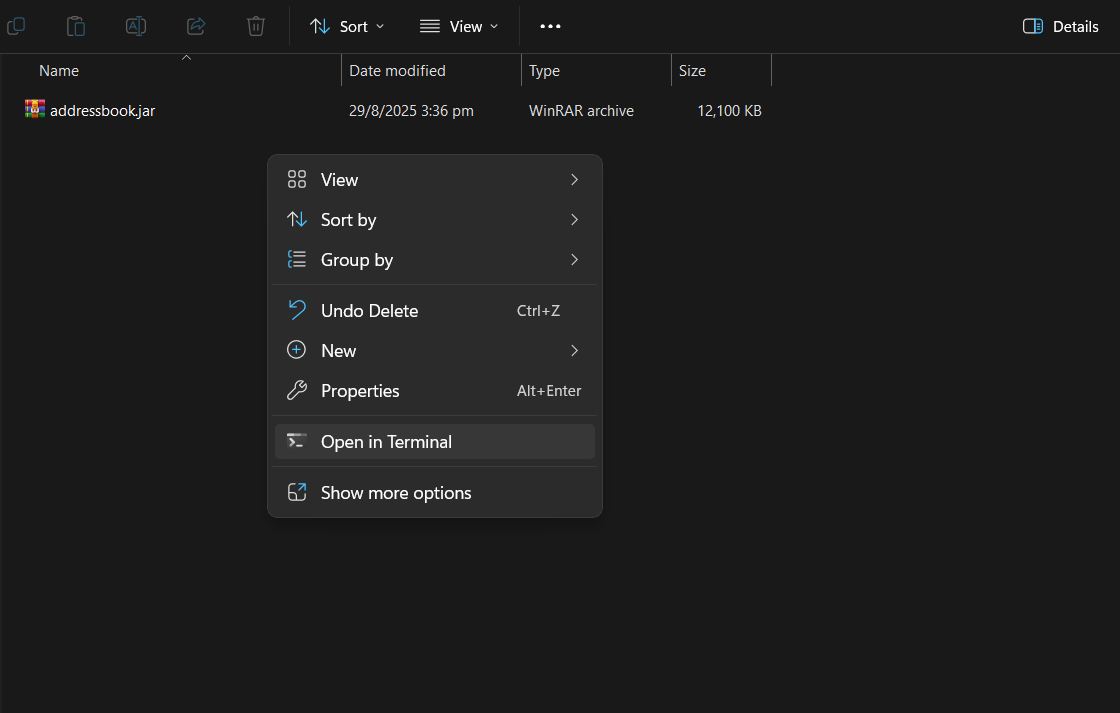
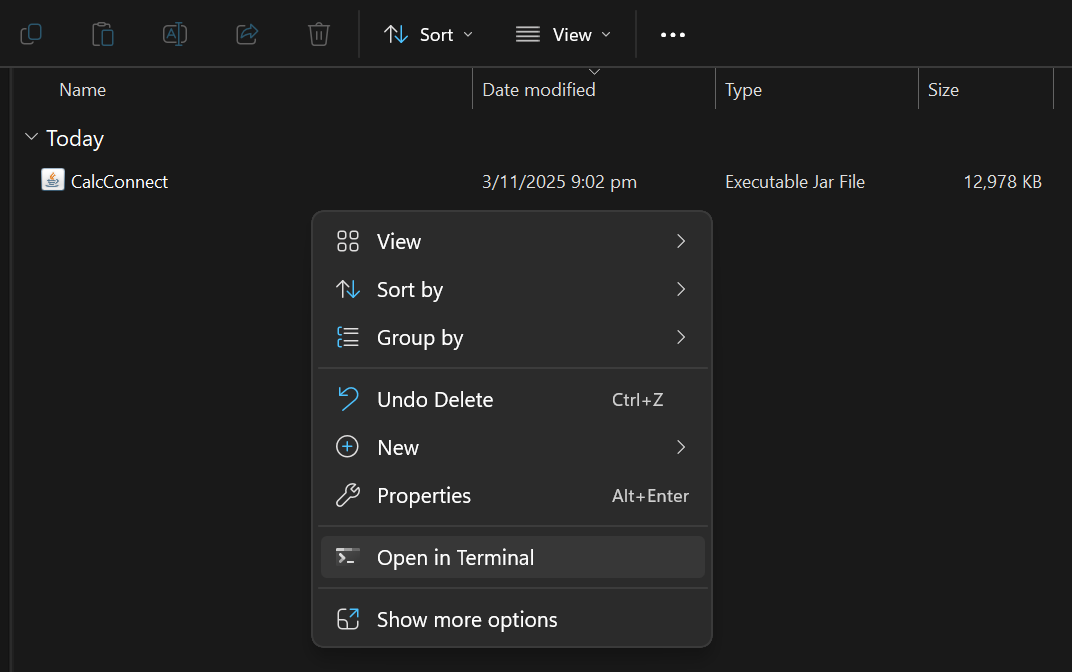
Add multiple minor fixes and improvements in UG

diff --git a/docs/UserGuide.md b/docs/UserGuide.md
@@ -21,7 +21,7 @@ CalcConnect is designed for **MA1521 TAs** who are technologically inclined. Whi
 
 1. Download the latest `.jar` file from [here](https://github.com/AY2526S1-CS2103T-F08B-4/tp/releases).
 
-1. Copy the file to the folder you want to use as the **home folder** for your AddressBook.
+1. Copy the file to the folder you want to use as the **home folder** for your address book.
 
 1. Go into the folder you put the jar file in, right-click anywhere in the folder space and select **Open in Terminal** (Windows).
    ![OpenInTerminalWindows](images/OpenCMD.png)
@@ -96,10 +96,9 @@ For instance, `listee` will not be interpreted as `list`.
 
 Shows a **popup** with a **help guide** of the commands available to users.
 
-![help popup](images/helpPopup.png)
-
 Format: `help`
 
+![help popup](images/helpPopup.png)
 
 ### Adding a student: `add`
 
@@ -124,11 +123,9 @@ Expected output:
 
 **Warnings:**
 * If any of the compulsory fields (Name, Phone Number, Email, Telegram Handle, Tutorial Group) are missing, an **error message** will be displayed and the student will not be added.
-  e.g. `Invalid command format!...` and details of the error.
 * If a student with the **same email** (case insensitive) already exists in the address book, an **error message** will be displayed, and the student will not be added.
   e.g. `This student already exists in the address book`
 * If any of the fields contain **invalid values** (e.g. empty name, phone number with non-numeric characters, improperly formatted email, or telehandle not starting with `@`), an **error message** will be displayed and the student will not be added.
-  e.g. `Invalid command format!...` and details of the error.
 
 ### Listing all students : `list`
 
@@ -136,7 +133,7 @@ Shows a list of all students in the address book.
 
 Format: `list [/v]`
 
-* If the optional verbose flag `/v` is written at the end, more **detailed information** (all grades and attendance) of the students will be shown instead of a summary.
+* If the optional verbose flag `/v` is written at the end, all assignment grades and tutorial attendances will be displayed.
 
 ### Editing a student : `edit`
 
@@ -156,6 +153,9 @@ Examples:
 Edits the phone number and Telegram Handle of the 1st student to be `91234567` and `@john` respectively.
 *  `edit 2 n/Betsy Crower t/`<br> 
 Edits the name of the 2nd student to be `Betsy Crower` and clears all existing tags.
+
+Expected output:
+* `Edited Student:...` with the details of the student edited.
 
 **Warnings:**
 * If a student with the **same email** (case insensitive) already exists in the address book, an **error message** will be displayed, and the student will not be edited.
@@ -177,10 +177,7 @@ Searches by specific fields. You can combine multiple fields. At least 1 field i
 * The **order** of the keywords **does not matter**. e.g. `Hans Bo` will match `Bo Hans`
 * Students matching at least one keyword will be returned (i.e. `OR` search).
   e.g. `Hans Bo` will return `Hans Gruber`, `Bo Yang`
-* If the optional verbose flag `/v` is written at the end, more detailed information (shows all grades and attendance) of the found students will be shown instead of a summary.
-
-Expected Output:<br>
-A list of students matching your search criteria will be displayed in the main window.
+* If the optional verbose flag `/v` is written at the end, all assignment grades and tutorial attendances will be displayed.
 
 Examples:
 * `find n/John` 
@@ -190,11 +187,14 @@ Examples:
 * `find n/Alex e/example.com` 
 <br>returns students whose names contain `Alex` or whose email addresses contain `example.com`
 * `find u/@jake tg/TG02` 
-<br>returns students whose `Telegram handle` contains `@jake` or who are in `Tutorial2`
+<br>returns students whose `Telegram handle` contains `@jake` or who are in `Tutorial 2`
+
+Expected Output:<br>
+* A list of students matching your search criteria will be displayed in the main window.
 
 **Warnings:**
 * If no matches are found, the list will be empty.
-* If wrong format is used (e.g. `find`, `find John`, `find n/`), a specific error message will be displayed (specifies if it is the input, keyword or prefix that is missing).
+* If wrong format is used (e.g. `find`, `find John`, `find n/`), a specific error message will be displayed (specifies if it is the input, keyword or prefix that is invalid/missing).
 
 ### Deleting a student : `delete`
 
@@ -210,14 +210,14 @@ Examples:
 * `list` followed by `delete 2` deletes the 2nd student in the address book.
 * `find Betsy` followed by `delete 1` deletes the 1st student in the results of the `find` command.
 
-Hints:
+Tips:
 * Use `find` command to locate the student to delete then use the `delete` command to delete the relevant student.
 
 Expected output:
 * Student is **deleted** from the address book.
 
 **Warnings:**
-* Entering the wrong format for the command will result in a **warning**: `Invalid command format!`
+* Entering the wrong format or an invalid index for the command will result in a specific warning.
 
 ### Clearing all entries : `clear`
 
@@ -250,10 +250,12 @@ Format: `grade INDEX a/ASSIGNMENT_NAME g/GRADE`
 * The index **must be a positive integer** 1, 2, 3, …
 * Assignment name must be one of [Q1, Q2, Q3, Q4, Q5, Q6, Q7, Finals], case-insensitive.
 * Grade must be a **positive real number**(up to 2 decimal places) in the range 0-100 (inclusive).
+* Leaving the grade field empty (`g/`) will result in the assignment being marked as **not graded**.
 
 Examples:
 * `grade 3 a/Q1 g/97`
 * `grade 5 a/finals g/80`
+* `grade 5 a/finals g/` removes the grade for finals of the 5th student in the address book.
 
 Expected output: <br>
 The specified student's grade will be updated with the given value.
@@ -261,6 +263,9 @@ This value will be automatically converted to 2 decimal places.
 
 `grade` commands show the verbose UI by default. Red assignments indicate not graded and blue assignments indicate graded.<br>
 <img src="images/gradeCharlotte.png" alt="Example add Betsy" width="25%" height="25%">
+
+**Warnings:**
+* Entering an invalid or missing index, assignment name or grade will result in a specific error message.
 
 ### Sorting the student list: `sort`
 
@@ -275,11 +280,10 @@ Possible `[FIELD]` values:
 * `tutorial`: Sorts by tutorial group number (lowest first).
 
 Possible `[ORDER]` values:
-* (default): Sorts in **ascending** order.
-* `asc`: Sorts in **ascending** order.
+* `asc`: Sorts in **ascending** order (default if ORDER not provided).
 * `desc`: Sorts in **descending** order.
 
-Note: default means no order parameter is specified.
+<br>
 
 * Sorting by `name` sorts the students in **alphabetical order** of their **names**.
 * Sorting by `grade` sorts the students in **ascending order** of their **average grades across all assignments**.
@@ -287,17 +291,17 @@ Note: default means no order parameter is specified.
 * Sorting by `tutorial` sorts the students in **ascending numerical order** of their **tutorial group numbers**.
 * If no `field` is specified, the default sorting field is `name`.
 * If no `order` is specified, the default sorting order is as specified above.
-* If the optional verbose flag `/v` is written at the end, more detailed information of the found students will be shown instead of a summary.
-
-Expected Output:<br>
-The student list will be reordered according to your chosen field.
+* If the optional verbose flag `/v` is written at the end, all assignment grades and tutorial attendances will be displayed.
 
 Examples:
 * `sort name` sorts the student list in alphabetical order of names.
 * `sort grade` sorts the student list in ascending order of average grades.
 * `sort attendance` sorts the student list in ascending order of attendance percentage.
 * `sort tutorial` sorts the student list in ascending order of tutorial group numbers.
-* `sort tutorial /v` sorts the student list in ascending order of tutorial group numbers and shows more detailed information of the students.
+* `sort tutorial /v` sorts the student list in ascending order of tutorial group numbers and shows all assignment grades and tutorial attendances.
+
+Expected Output:<br>
+The student list will be reordered according to your chosen field.
 
 **Warnings:**
 * Sorting only affects the current displayed list, not the underlying data.
@@ -370,18 +374,18 @@ Format: `exit`
 
 ### Saving the data
 
-AddressBook data are saved in the hard disk automatically after any command that changes the data. There is no need to save manually.
+CalcConnect data are saved in the hard disk automatically after any command that changes the data. There is no need to save manually.
 
 ### Editing the data file
 
-AddressBook data are saved automatically as a JSON file `[JAR file location]/data/CalcConnect.json`. 
+CalcConnect data are saved automatically as a JSON file `[JAR file location]/data/CalcConnect.json`. 
 Advanced users are welcome to update data directly by editing that data file.
 
 **WARNING**: Most users are advised against doing so, as it is easy to corrupt the data file if you are not careful.
 
 <div markdown="span" class="alert alert-warning">:exclamation: **Caution:**
-If your changes to the data file makes its format invalid, AddressBook will discard all data and start with an empty data file at the next run. Hence, it is recommended to take a backup of the file before editing it.<br>
-Furthermore, certain edits can cause the AddressBook to behave in unexpected ways (e.g., if a value entered is outside of the acceptable range). Therefore, edit the data file only if you are confident that you can update it correctly.
+If your changes to the data file makes its format invalid, CalcConnect will discard all data and start with an empty data file at the next run. Hence, it is recommended to take a backup of the file before editing it.<br>
+Furthermore, certain edits can cause CalcConnect to behave in unexpected ways (e.g., if a value entered is outside of the acceptable range). Therefore, edit the data file only if you are confident that you can update it correctly.
 </div>
 
 --------------------------------------------------------------------------------------------------------------------
@@ -411,14 +415,14 @@ Furthermore, certain edits can cause the AddressBook to behave in unexpected way
 
 Action | Format, Examples
 --------|------------------
-**Add** | `add n/NAME p/PHONE_NUMBER e/EMAIL u/TELEHANDLE tg/TUTORIAL_GROUP [t/TAG]…` <br> e.g., `add n/James Ho p/22224444 e/jamesho@example.com u/@james t/Good Student`
+**Add** | `add n/NAME p/PHONE_NUMBER e/EMAIL u/TELEHANDLE tg/TUTORIAL_GROUP [t/TAG]…` <br> e.g., `add n/James Ho p/91696700 e/jamesho@example.com u/@james tg/TG01 t/Good Student`
 **Clear** | `clear`
 **Delete** | `delete INDEX`<br> e.g., `delete 3`
 **Grade** | `grade INDEX a/ASSIGNMENT_NAME g/GRADE`<br> e.g., `grade 3 a/Finals g/97`
 **Attend** | `attend INDICES... c/TUTORIAL_CLASS`<br> e.g., `attend 1 c/t5`
 **Unattend** | `unattend INDEX c/TUTORIAL_CLASS`<br> e.g., `unattend 2 c/t9`
-**Edit** | `edit INDEX [n/NAME] [p/PHONE_NUMBER] [e/EMAIL] [u/TELEHANDLE] [tg/TUTORIAL_GROUP] [t/tag]…`<br> e.g.,`edit 2 n/James Lee e/jameslee@example.com`
-**Find** | `find [n/NAME_KEYWORD] [e/EMAIL_KEYWORD] [u/TELEHANDLE_KEYWORD] [tg/TUTORIAL_KEYWORD] [/v]` <br> e.g., `find n/Alex` <br> *at  least one field must be provided*
-**Sort** | `sort [field] [/v]`<br> e.g., `sort grade`
+**Edit** | `edit INDEX [n/NAME] [p/PHONE_NUMBER] [e/EMAIL] [u/TELEHANDLE] [tg/TUTORIAL_GROUP] [t/tag]…`<br> e.g.,`edit 2 n/James Lee e/jameslee@example.com` <br> *at  least one field must be provided*
+**Find** | `find [n/NAME_KEYWORD]... [e/EMAIL_KEYWORD]... [u/TELEHANDLE_KEYWORD]... [tg/TUTORIAL_KEYWORD]... [/v]` <br> e.g., `find n/Alex` <br> *at  least one field must be provided*
+**Sort** | `sort [FIELD] [ORDER] [/v]`<br> e.g., `sort grade asc`
 **List** | `list [/v]`
 **Help** | `help`
